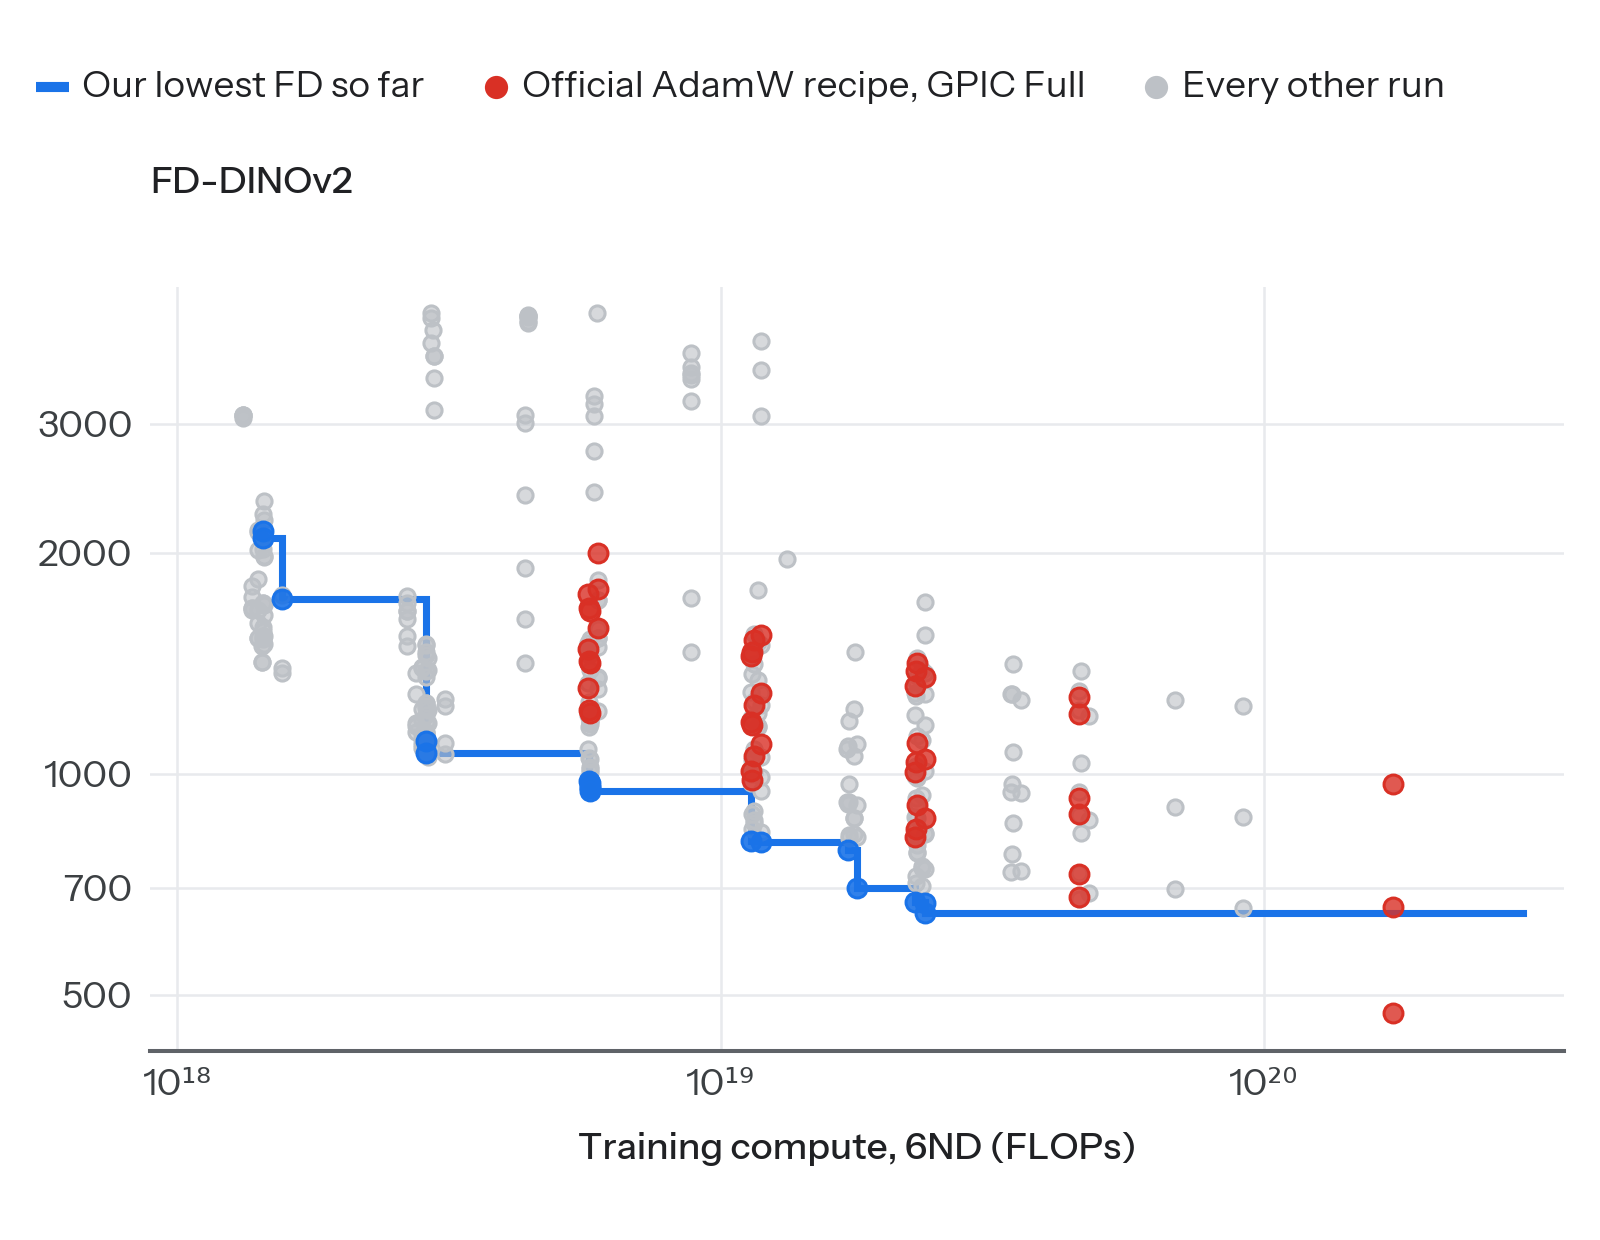
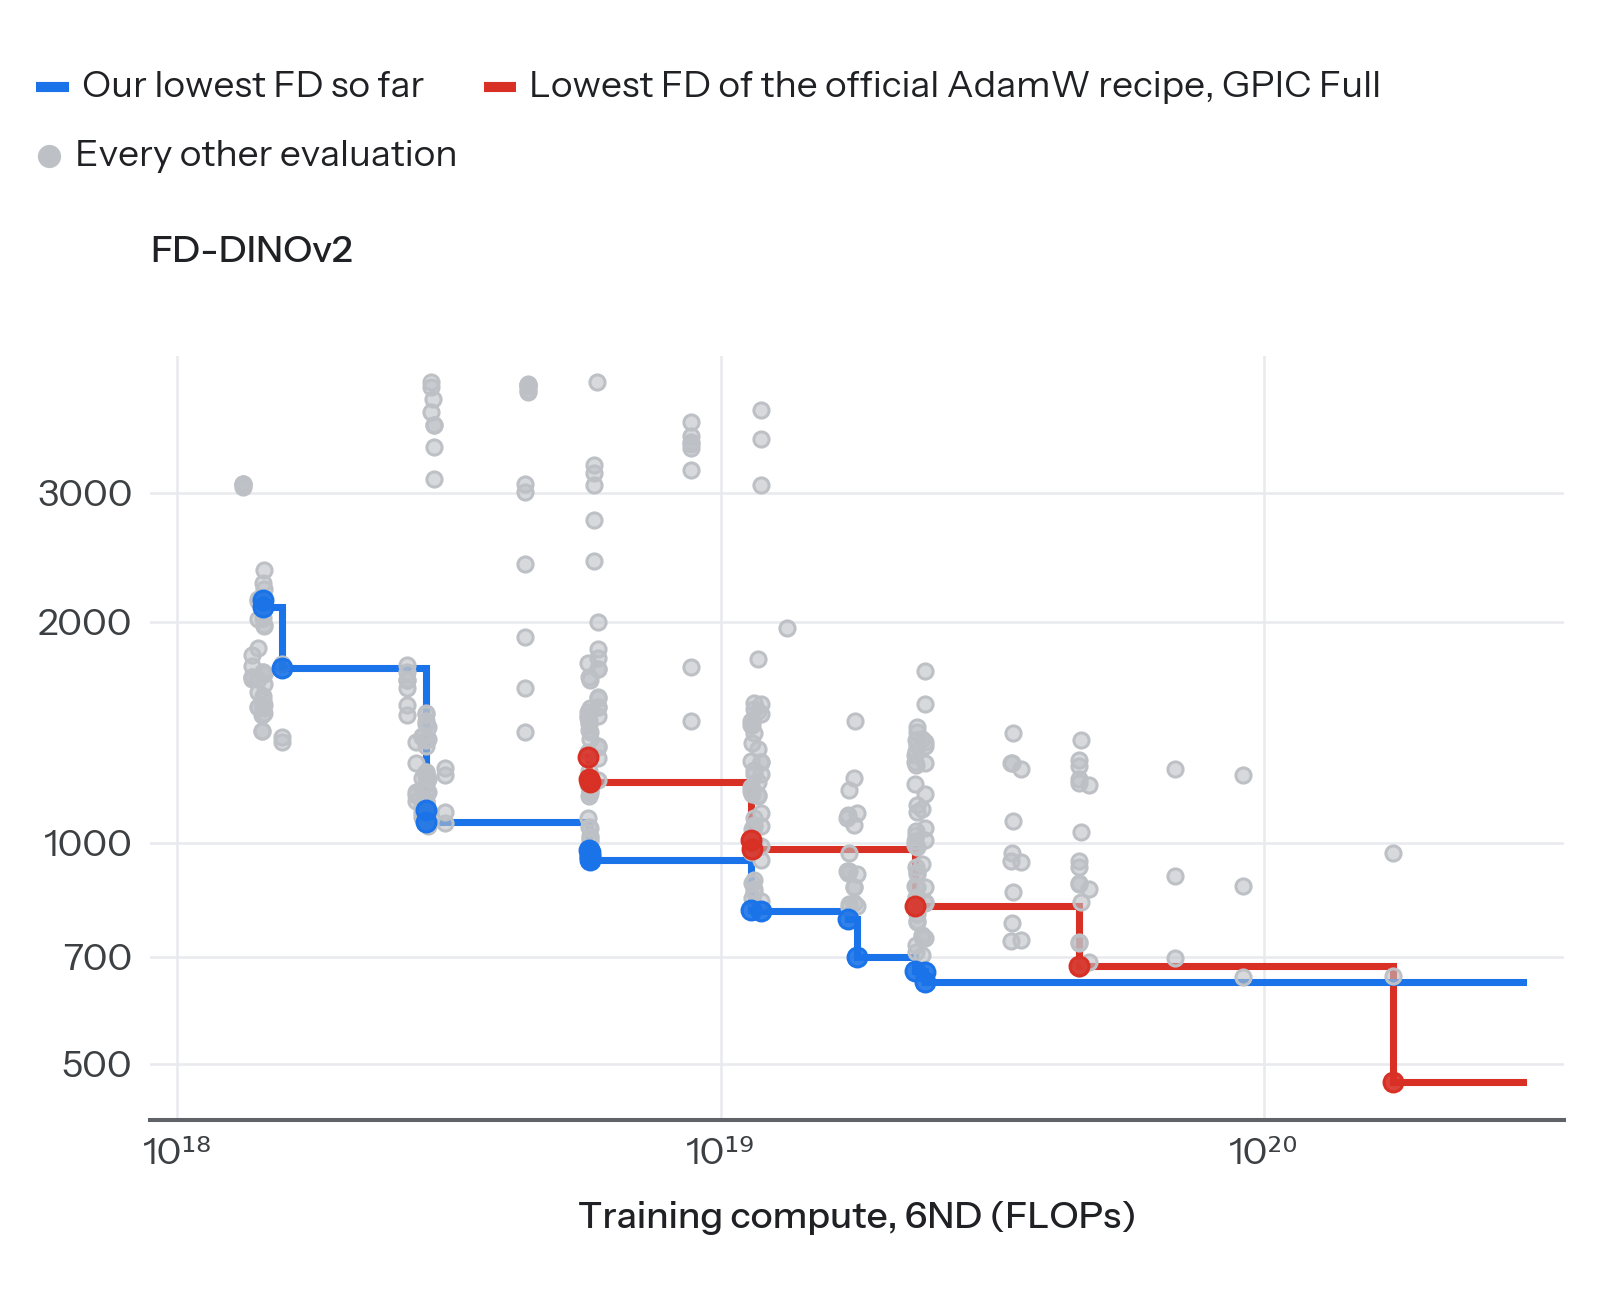
README: the official recipe drawn as its own frontier in the fourth figure (owner: too many red dots); its other samplers are grey
Claude-Session: https://claude.ai/code/session_01Dj2myTCELmdJC3HxvFjMpm

diff --git a/README.md b/README.md
@@ -23,9 +23,9 @@ This repository is a fork of the GPIC code release ([keshik6/gpic](https://githu
 
 ## What we have so far
 
-<img src="docs/readme/readme_all_points.png" width="560" alt="FD of every evaluation against training compute 6ND: our frontier and the official recipe">
+<img src="docs/readme/readme_all_points.png" width="560" alt="FD of every evaluation against training compute 6ND: our frontier and the official recipe's frontier">
 
-Every evaluation of every run, against training compute 6ND. Blue is our frontier, the lowest FD reached at or below each compute in the standard evaluation; red is the official AdamW recipe on GPIC Full, its ladder and the released model; grey is everything else, whatever its sampler.
+Every evaluation of every run, against training compute 6ND. Blue is our frontier, the lowest FD reached at or below each compute in the standard evaluation; red is the same frontier for the official AdamW recipe on GPIC Full, its ladder and the released model; grey is every other evaluation, whatever its sampler.
 
 <img src="docs/readme/readme_muon_adamw.png" width="560" alt="FD at 1.4e19 FLOPs by parameters, Muon against AdamW">
 
